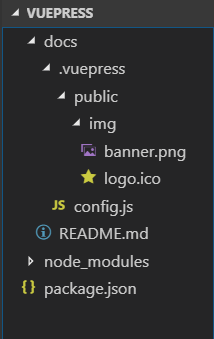
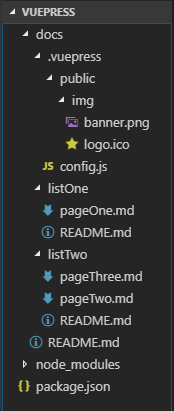
使用 GitHub Pages 和 VuePress 搭建网站

diff --git a/other-library/GithubPages/GithubPages.md b/other-library/GithubPages/GithubPages.md
@@ -2,7 +2,7 @@
 ===
 
 > Create by **jsliang** on **2018-10-20 10:34:39**  
-> Recently revised in **2018-10-23 23:00:57**
+> Recently revised in **2018-10-24 09:11:03**
 
 <br>
 
@@ -10,6 +10,7 @@
 
 <br>
 
+&emsp;本文教你如何利用 GitHub 平台搭建自己的博客/文档库。  
 &emsp;如果，你的目的仅仅是想了解如何配置。那么，你应该在看完 `第三章 基础配置` 后，就可以自己去写自己的博客/文档库，遇到不懂的问题，可以自己翻阅 VuePress 文档，解决你所需要解决的问题。  
 &emsp;如果，你的目的是具体查找某组件：例如导航条、例如侧边栏的配置。那么，你可以直接查找目录，跳到对应章节进行阅读。  
 
@@ -35,7 +36,7 @@
 | <a name="catalog-chapter-two" id="catalog-chapter-two"></a>[二 前言](#chapter-two) |
 | <a name="catalog-chapter-three" id="catalog-chapter-three"></a>[三 基础配置](#chapter-three) |
 | &emsp;[3.1 搭建 GitHub Pages](#chapter-three-one) |
-| &emsp;[3.2 搭建 VuePages](#chapter-three-two) |
+| &emsp;[3.2 搭建 VuePress](#chapter-three-two) |
 | &emsp;&emsp;[3.2.1 目录讲解](#chapter-three-two-one) |
 | &emsp;&emsp;[3.2.2 导航栏](#chapter-three-two-two) |
 | &emsp;&emsp;[3.2.3 侧边栏](#chapter-three-two-three) |
@@ -155,7 +156,11 @@ git push
 
 <br>
 
-## <a name="chapter-three-two" id="chapter-three-two">3.2 搭建 VuePages</a>
+&emsp;如上，完成 GitHub Pages 的搭建，现在我们已经拥有了一个部署静态页面的免费平台了。那么，下面我们将讲解如何通过 Markdown 来编写博客。
+
+<br>
+
+## <a name="chapter-three-two" id="chapter-three-two">3.2 搭建 VuePress</a>
 
 > [返回目录](#chapter-one)
 
@@ -208,28 +213,52 @@ Hello VuePress
 
 <br>
 
-3. 完善配置
+## <a name="chapter-three-two-one" id="chapter-three-two-one">3.2.1 目录讲解</a>
 
-* 配置导航条
+> [返回目录](#chapter-one)
 
-&emsp;首先，搭建目录如下：
+<br>
+
+&emsp;现在，我们来个基配的目录，进行讲解：
 
 ![图](../../public-repertory/img/other-GithubPages-11.png)
 
-&emsp;其中，.vuepress 是 VuePress 的配置文件，其架构为：
+<br>
 
 ```
-- .vuepress             - VuePress 配置目录
- - public               - 共用文件存储目录
-  - img                 - 共用图片
-   - banner.png         - 首页 banner
-   - logo.ico           - 网页小图标
- - config.js            - 配置 js 文件
+- docs                   - VuePress 存放目录
+ - .vuepress             - VuePress 配置目录
+  - public               - 共用文件存储目录
+   - img                 - 共用图片目录
+    - banner.png         - 图片-首页 banner
+    - logo.ico           - 图片-网站右上角小图标
+  - config.js            - VuePress 的 js 配置文件
+ - listOne               - 侧边栏项目组1
+  - pageOne.md           - 项目组1页面1
+  - README.md            - 项目组1默认页面
+ - listTwo               - 侧边栏项目组2
+  - pageThree.md         - 项目组2页面3
+  - pageTwo.md           - 项目组2页面2
+  - README.md            - 项目组2默认页面
+ - README.md             - 网站默认首页
++ node_modules           - node 依赖包
+- package.json           - webpack 配置文件
 ```
 
 <br>
 
-&emsp;然后，填写 `config.js` 中的配置代码：
+&emsp;其中，`.vuepress` 存放 VuePress 的配置目录，`public` 中存放共有的文件，`config.js` 为 VuePress 的配置文件，`listOne`、`listTwo` 是侧边栏组，对页面进行个分类。
+
+<br>
+
+## <a name="chapter-three-two-two" id="chapter-three-two-two">3.2.2 导航栏</a>
+
+> [返回目录](#chapter-one)
+
+<br>
+
+&emsp;在这里，我们进行顶部导航栏的配置。  
+&emsp;首先，我们填写 `config.js` 中的配置代码：
 
 > config.js
 
@@ -292,9 +321,15 @@ module.exports = {
 }
 ```
 
-&emsp;最后，参照代码注释和下面的成果图，小伙伴应该懂得一些基本部署了。
+&emsp;然后，启动 `npm run dev`，打开 `http://localhost:8080`，你可以看到导航栏部署完毕了。
 
 ![图](../../public-repertory/img/other-GithubPages-12.png)
+
+<br>
+
+## <a name="chapter-three-two-three" id="chapter-three-two-three">3.2.3 侧边栏</a>
+
+> [返回目录](#chapter-one)
 
 <br>
 
